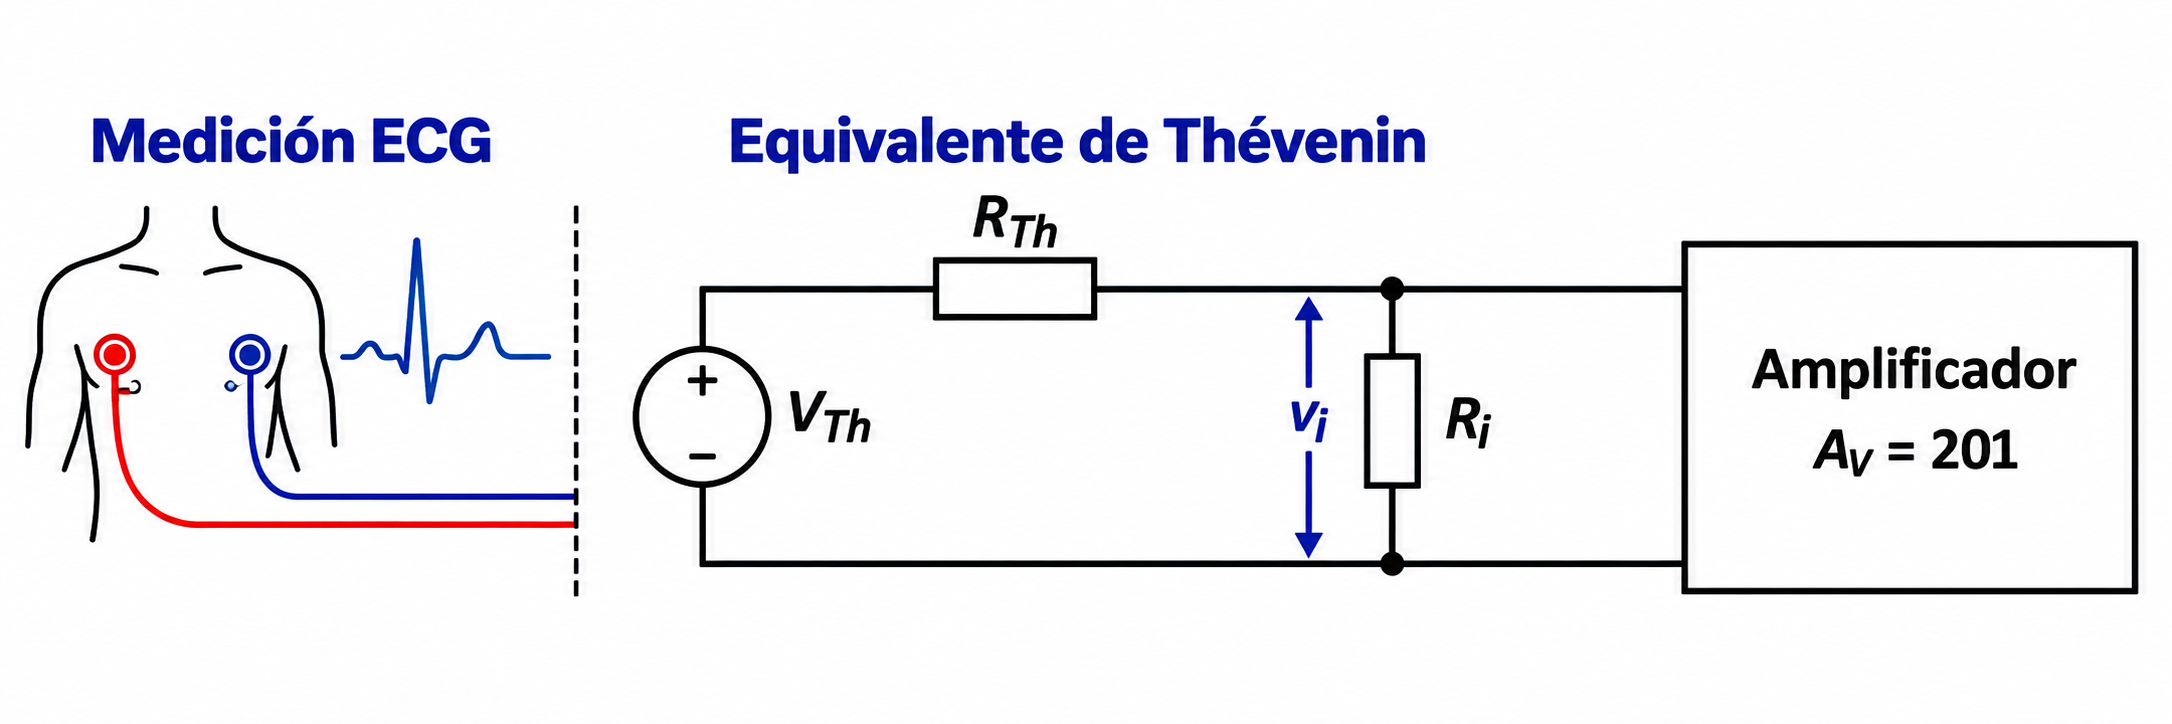
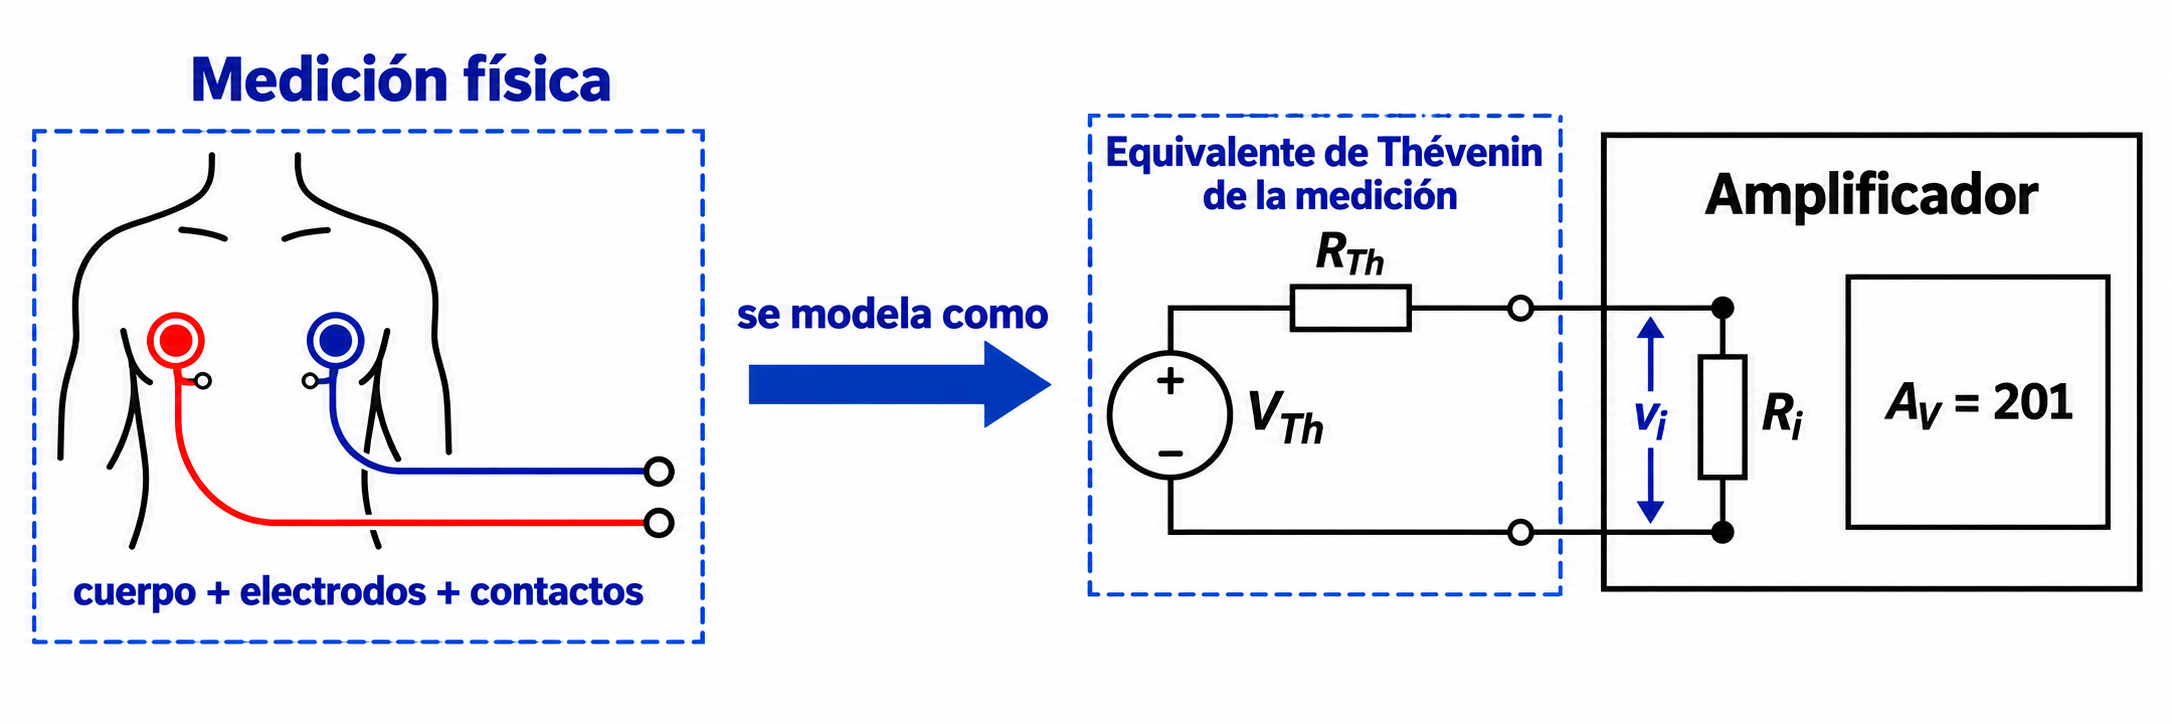
improve Thevenin explanation

diff --git a/trabajos/T1.md b/trabajos/T1.md
@@ -30,11 +30,11 @@ El trabajo será un ensayo y deberá contener:
 
 ## 1. Equivalentes de Thévenin de señales biomédicas (2,4 pt)
 
-Una medición diferencial de una señal biomédica será representada mediante un voltaje de Thévenin $V_{Th}$ y una resistencia de Thévenin $R_{Th}$.
+El ECG o el EEG se obtiene midiendo el voltaje entre dos electrodos colocados sobre el cuerpo. Para analizar cómo esta medición alimenta al amplificador, el conjunto formado por el cuerpo, los contactos entre la piel y los electrodos, los propios electrodos y sus cables será reemplazado por un equivalente de Thévenin visto desde los dos terminales que se conectan al amplificador. En este modelo, $V_{Th}$ representa el voltaje que existiría entre esos terminales si el amplificador estuviera desconectado, mientras que $R_{Th}$ representa la resistencia de salida del conjunto.
 
 <img src="../img/t1_thevenin_ecg.png" width="900">
 
-Figura 1: Ejemplo de una medición de ECG representada mediante su equivalente de Thévenin y conectada a la entrada del amplificador.
+Figura 1: El cuerpo, los contactos con la piel, los electrodos y sus cables se reemplazan por un equivalente de Thévenin conectado a la entrada del amplificador. La resistencia $R_i$ forma parte del modelo de entrada del amplificador.
 
 Determinen valores posibles de $V_{Th}$ y $R_{Th}$ para cada uno de los siguientes escenarios:
 
